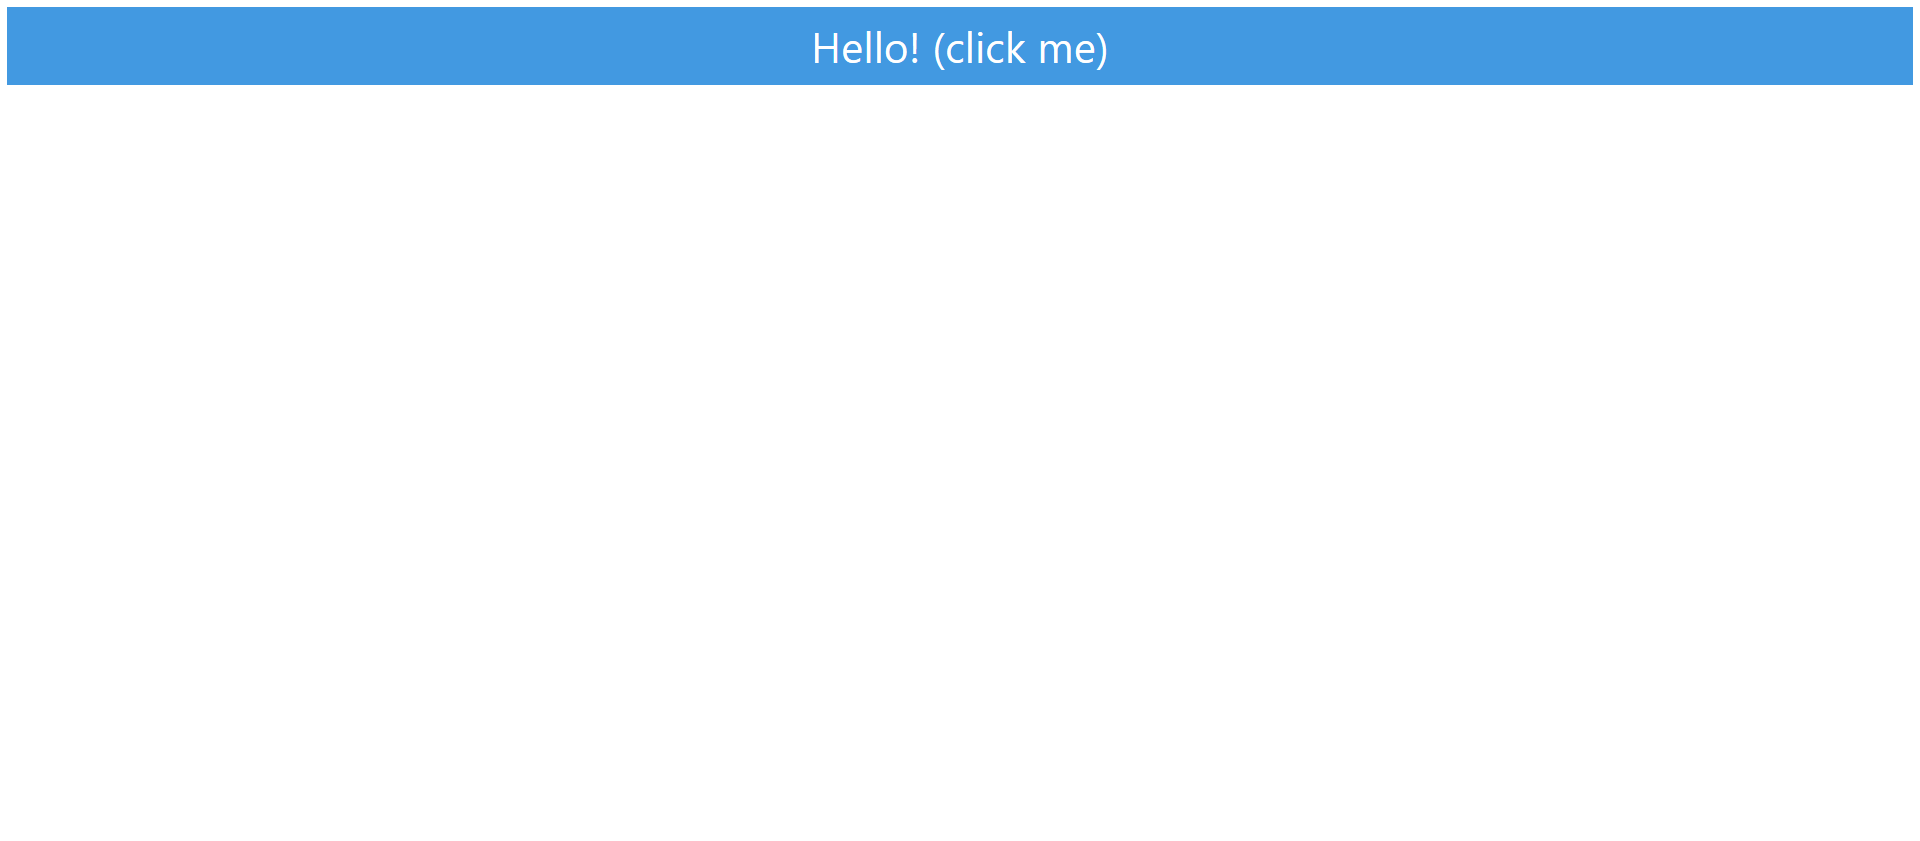
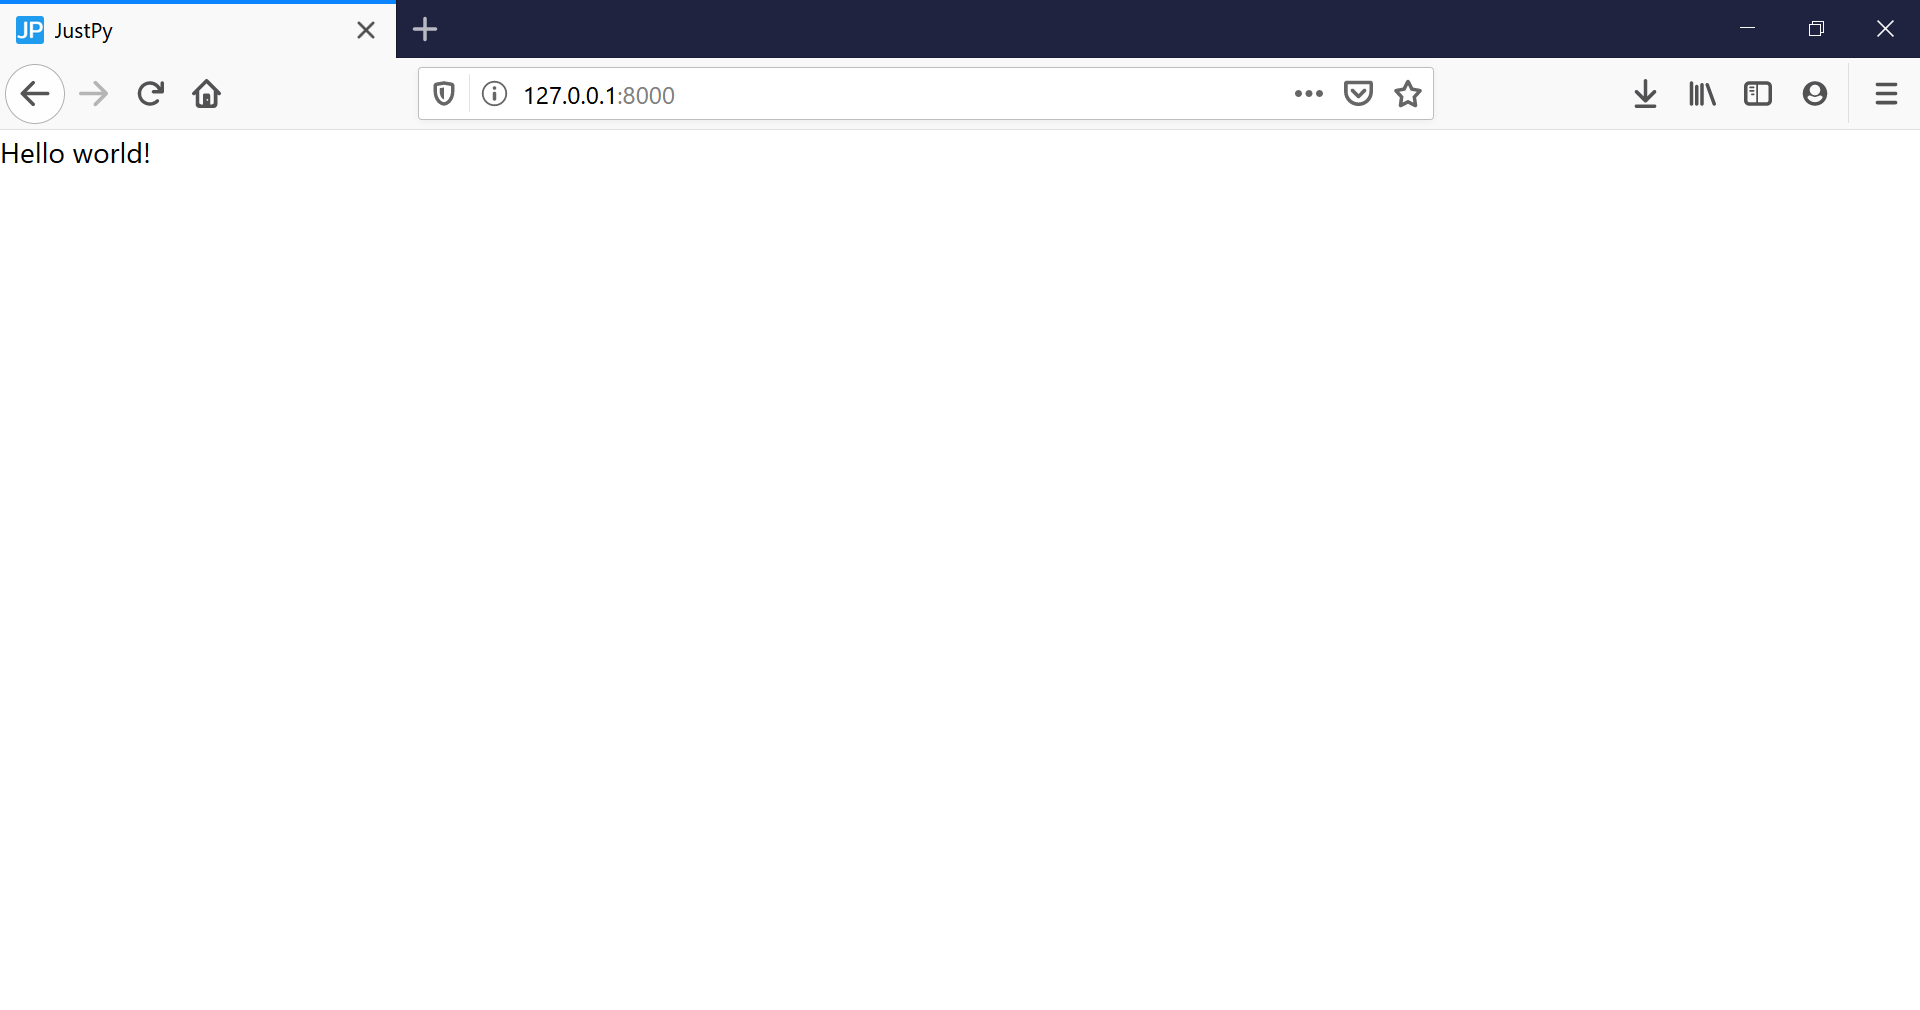
Add static hello world image

Changed region(s): [[0.0, 0.0, 1.0, 0.1855]]

diff --git a/README.md b/README.md
@@ -22,7 +22,7 @@ For updates and news please follow the [JustPy Twitter account](https://twitter.
 
 ## Hello World!
 
-![Hello World GIF](docs/Images/hello-world-justpy-gif.gif)
+![Static Hello World](docs/Images/hello-world-justpy-static.png)
 
 ```python
 import justpy as jp
@@ -39,6 +39,8 @@ jp.justpy(hello_world)
 The program above activates a web server that returns a web page with 'Hello world!' for any request. Locally, you would direct your browser to http://127.0.0.1:8000 or http://localhost:8000/ or  to see the result.
 
 Here is a slightly modified version in which 'Hello world!' changes to 'I was clicked!' when it is clicked.
+
+![Hello World With Clicks GIF](docs/Images/hello-world-justpy-gif.gif)
 
 ```python
 import justpy as jp
